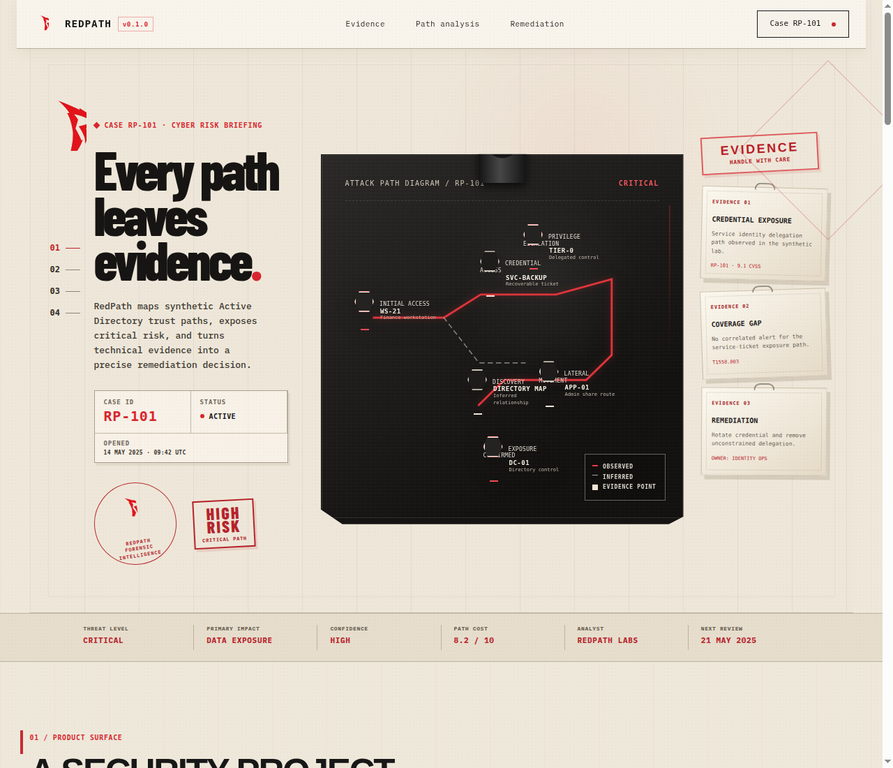
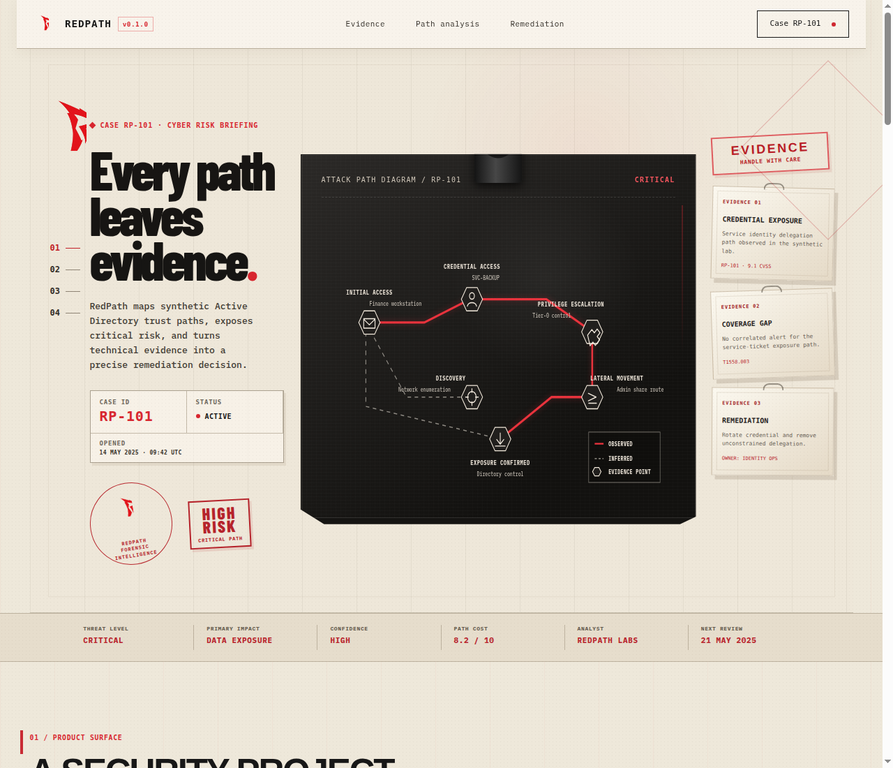
design: compose reference attack board

diff --git a/frontend/src/App.tsx b/frontend/src/App.tsx
@@ -27,6 +27,20 @@ import { coverageByTactic, findings, graphNodes, mitreCoverage, overallCoverage,
 
 const severityOrder: Severity[] = ["Critical", "High", "Medium", "Low"];
 
+function ReferenceBoard() {
+  return <div className="reference-board" role="img" aria-label="Observed RedPath exposure route through synthetic Active Directory evidence">
+    <svg viewBox="0 0 1000 620" preserveAspectRatio="none"><path className="observed" d="M125 250 H290 L420 200 H635 L765 270 V410 H650 L505 500" /><path className="inferred" d="M125 250 L240 410 H420" /><path className="inferred" d="M125 250 L125 430 L505 500" />
+      <g transform="translate(105 225)"><polygon className="node-plate" points="0,25 15,0 45,0 60,25 45,50 15,50" /><path className="node-icon" d="M14 17h32v20H14zM14 18l16 12 16-12" /></g><text className="node-label" x="135" y="190">INITIAL ACCESS</text><text className="node-detail" x="135" y="214">Finance workstation</text>
+      <g transform="translate(395 175)"><polygon className="node-plate" points="0,25 15,0 45,0 60,25 45,50 15,50" /><circle className="node-icon" cx="30" cy="18" r="7" /><path className="node-icon" d="M17 40c3-10 23-10 26 0" /></g><text className="node-label" x="425" y="135">CREDENTIAL ACCESS</text><text className="node-detail" x="425" y="159">SVC-BACKUP</text>
+      <g transform="translate(735 245)"><polygon className="node-plate" points="0,25 15,0 45,0 60,25 45,50 15,50" /><path className="node-icon" d="M17 32l12-12 7 7 8-8 8 8-8 8 7 7-12 12-7-7-8 8z" /></g><text className="node-label" x="705" y="215" textAnchor="end">PRIVILEGE ESCALATION</text><text className="node-detail" x="705" y="239" textAnchor="end">Tier-0 control</text>
+      <g transform="translate(395 385)"><polygon className="node-plate" points="0,25 15,0 45,0 60,25 45,50 15,50" /><circle className="node-icon" cx="30" cy="25" r="12" /><path className="node-icon" d="M30 7v8M30 35v8M12 25h8M40 25h8" /></g><text className="node-label" x="365" y="375" textAnchor="end">DISCOVERY</text><text className="node-detail" x="365" y="399" textAnchor="end">Network enumeration</text>
+      <g transform="translate(735 385)"><polygon className="node-plate" points="0,25 15,0 45,0 60,25 45,50 15,50" /><path className="node-icon" d="M19 17l22 8-22 8M20 38h22" /></g><text className="node-label" x="835" y="375">LATERAL MOVEMENT</text><text className="node-detail" x="835" y="399">Admin share route</text>
+      <g transform="translate(475 475)"><polygon className="node-plate" points="0,25 15,0 45,0 60,25 45,50 15,50" /><path className="node-icon" d="M30 12v24M20 26l10 10 10-10M16 40h28" /></g><text className="node-label" x="505" y="555" textAnchor="middle">EXPOSURE CONFIRMED</text><text className="node-detail" x="505" y="579" textAnchor="middle">Directory control</text>
+      <g transform="translate(755 485)"><rect className="legend-box" width="202" height="108" /><line className="legend-observed" x1="17" x2="42" y1="25" y2="25" /><text className="legend-text" x="56" y="30">OBSERVED</text><line className="legend-inferred" x1="17" x2="42" y1="57" y2="57" /><text className="legend-text" x="56" y="62">INFERRED</text><polygon className="node-plate" points="17,76 29,76 35,85 29,94 17,94 11,85" /><text className="legend-text" x="56" y="90">EVIDENCE POINT</text></g>
+    </svg>
+  </div>;
+}
+
 export default function Home() {
   const [selectedPathId, setSelectedPathId] = useState("path-service-ticket");
   const [selectedAssetId, setSelectedAssetId] = useState("SVC-BACKUP");
@@ -76,11 +90,8 @@ export default function Home() {
           <div className="hero-panel" aria-label="RedPath evidence board attack path diagram">
             <div className="case-board">
               <div className="case-board-head"><span>ATTACK PATH DIAGRAM / RP-101</span><b>CRITICAL</b></div>
-              <div className="case-board-route">
-                <svg viewBox="0 0 520 300" aria-hidden="true"><path d="M47 103 H165 L227 64 H354 L448 38 V166 L405 208 H267 L224 250" /><path className="inferred" d="M165 103 L224 179 L302 179" /><circle className="hot" cx="47" cy="103" r="7" /><circle cx="165" cy="103" r="7" /><circle className="hot" cx="227" cy="64" r="7" /><circle cx="354" cy="64" r="7" /><circle className="hot" cx="448" cy="38" r="7" /><circle cx="405" cy="208" r="7" /><circle className="hot" cx="224" cy="250" r="7" /></svg>
-                <div className="board-point initial hot">Initial access<b>WS-21</b><small>Finance workstation</small></div><div className="board-point credential">Credential access<b>svc-backup</b><small>Recoverable ticket</small></div><div className="board-point privilege hot">Privilege escalation<b>Tier-0</b><small>Delegated control</small></div><div className="board-point discovery">Discovery<b>Directory map</b><small>Inferred relationship</small></div><div className="board-point lateral">Lateral movement<b>APP-01</b><small>Admin share route</small></div><div className="board-point exfil hot">Exposure confirmed<b>DC-01</b><small>Directory control</small></div>
-              </div>
-              <div className="board-legend"><span>Observed</span><span>Inferred</span><span>Evidence point</span></div>
+              <ReferenceBoard />
+              <div className="case-board-route"><svg className="board-svg" viewBox="0 0 1000 600" preserveAspectRatio="none" role="img" aria-label="Six-stage synthetic attack path from workstation to directory control"><path className="attack-route" d="M120 340 H305 L375 195 H650 L800 335 V425 H600 V505" /><path className="inferred-route" d="M305 340 L375 430 H800" /><g className="hot"><polygon className="glyph" points="100,315 140,315 160,340 140,365 100,365 80,340" /><text className="index" x="120" y="341">01</text><text className="kind" x="180" y="307">INITIAL ACCESS</text><text className="node-name" x="180" y="337">WS-21</text><text className="node-note" x="180" y="360">Finance workstation</text></g><g><polygon className="glyph" points="355,170 395,170 415,195 395,220 355,220 335,195" /><text className="index" x="375" y="196">02</text><text className="kind" x="435" y="160">CREDENTIAL ACCESS</text><text className="node-name" x="435" y="190">SVC-BACKUP</text><text className="node-note" x="435" y="213">Recoverable ticket</text></g><g className="hot"><polygon className="glyph" points="630,115 670,115 690,140 670,165 630,165 610,140" /><text className="index" x="650" y="141">03</text><text className="kind" x="710" y="105">PRIVILEGE ESCALATION</text><text className="node-name" x="710" y="135">TIER-0</text><text className="node-note" x="710" y="158">Delegated control</text></g><g><polygon className="glyph" points="355,405 395,405 415,430 395,455 355,455 335,430" /><text className="index" x="375" y="431">04</text><text className="kind" x="435" y="395">DISCOVERY</text><text className="node-name" x="435" y="425">DIRECTORY MAP</text><text className="node-note" x="435" y="448">Inferred relationship</text></g><g><polygon className="glyph" points="780,310 820,310 840,335 820,360 780,360 760,335" /><text className="index" x="800" y="336">05</text><text className="kind" x="740" y="382" textAnchor="end">LATERAL MOVEMENT</text><text className="node-name" x="740" y="412" textAnchor="end">APP-01</text><text className="node-note" x="740" y="435" textAnchor="end">Admin share route</text></g><g className="hot"><polygon className="glyph" points="580,480 620,480 640,505 620,530 580,530 560,505" /><text className="index" x="600" y="506">06</text><text className="kind" x="660" y="475">EXPOSURE CONFIRMED</text><text className="node-name" x="660" y="505">DC-01</text><text className="node-note" x="660" y="528">Directory control</text></g><g transform="translate(775 465)"><rect className="legend-panel" width="195" height="112" /><line className="legend-observed" x1="16" x2="39" y1="25" y2="25" /><text className="legend-text" x="52" y="30">OBSERVED</text><line className="legend-inferred" x1="16" x2="39" y1="57" y2="57" /><text className="legend-text" x="52" y="62">INFERRED</text><polygon className="legend-point" points="17,75 29,75 35,84 29,93 17,93 11,84" /><text className="legend-text" x="52" y="89">EVIDENCE POINT</text></g></svg></div>
             </div>
           </div>
           <aside className="case-evidence-rail" aria-label="Evidence cards">

diff --git a/frontend/src/attack-board-rebuild.css b/frontend/src/attack-board-rebuild.css
@@ -1,0 +1,4 @@
+/* From-scratch board composition: fewer elements, bigger labels, clearer route. */
+.case-board-route { position: relative; height: 410px; margin-top: 13px; overflow: hidden; }.case-board-route svg { position: absolute; inset: 0; width: 100%; height: 100%; overflow: visible; }.case-board-route svg path { fill: none; stroke: #eb3b43; stroke-width: 3.1; stroke-linecap: round; stroke-linejoin: round; filter: drop-shadow(0 0 5px rgba(235,59,67,.3)); }.case-board-route svg .inferred { stroke: #a19e96; stroke-width: 1.5; stroke-dasharray: 7 7; filter: none; opacity: .84; }.board-node { position: absolute; z-index: 2; display: flex; align-items: center; gap: 10px; min-width: 136px; color: #f5eee2; text-shadow: 0 1px 0 #000; }.board-node .node-glyph { display: grid; flex: 0 0 31px; place-items: center; width: 31px; height: 34px; color: #f3eade; border: 1px solid rgba(246,239,227,.8); background: linear-gradient(145deg,#34312d,#151412); clip-path: polygon(25% 0,75% 0,100% 50%,75% 100%,25% 100%,0 50%); font: 800 9px "IBM Plex Mono", monospace; }.board-node.hot .node-glyph { color: #fff1e9; border-color: #fb776f; box-shadow: 0 0 0 1px rgba(235,59,67,.65), 0 0 18px rgba(235,59,67,.18); }.node-copy { display: grid; gap: 2px; }.node-copy span { color: #d3cbc0; font: 700 8px "IBM Plex Mono", monospace; letter-spacing: .08em; }.node-copy b { color: #fff8eb; font: 800 12px/1 "IBM Plex Mono", monospace; letter-spacing: .04em; }.node-copy small { color: #bcb5aa; font: 500 9px/1.2 "IBM Plex Mono", monospace; white-space: nowrap; }.node-initial { left: 4%; top: 46%; }.node-credential { left: 32%; top: 22%; }.node-privilege { right: 9%; top: 8%; }.node-discovery { left: 34%; bottom: 22%; }.node-lateral { right: 12%; bottom: 30%; }.node-exposure { left: 48%; bottom: 2%; }.board-legend { position: absolute; z-index: 3; right: 5px; bottom: 1px; display: grid; gap: 7px; min-width: 118px; padding: 11px 12px; border: 1px solid rgba(247,239,227,.38); background: rgba(8,8,7,.42); color: #eee6d9; }.board-legend span { display: flex; align-items: center; gap: 8px; font: 700 8px "IBM Plex Mono", monospace; letter-spacing: .07em; }.board-legend span::before { content: ""; width: 12px; height: 2px; background: #eb3b43; }.board-legend span:nth-child(2)::before { height: 1px; background: repeating-linear-gradient(90deg,#aaa7a1 0 4px,transparent 4px 7px); }.board-legend span:nth-child(3)::before { width: 10px; height: 10px; background: transparent; border: 1px solid #eee6d9; clip-path: polygon(25% 0,75% 0,100% 50%,75% 100%,25% 100%,0 50%); }
+@media (max-width: 1320px) { .case-board-route { height: 372px; }.board-node { gap: 8px; min-width: 115px; }.board-node .node-glyph { flex-basis: 26px; width: 26px; height: 29px; font-size: 8px; }.node-copy span { font-size: 7px; }.node-copy b { font-size: 10px; }.node-copy small { font-size: 8px; }.node-exposure { left: 43%; }.board-legend { transform: scale(.88); transform-origin: bottom right; } }
+@media (max-width: 760px) { .case-board-route { height: 340px; margin-top: 6px; }.board-node { min-width: 76px; gap: 5px; }.board-node .node-glyph { flex-basis: 18px; width: 18px; height: 21px; font-size: 6px; }.node-copy { gap: 1px; }.node-copy span { font-size: 5px; letter-spacing: .04em; }.node-copy b { font-size: 7px; }.node-copy small { max-width: 66px; overflow: hidden; font-size: 5px; text-overflow: ellipsis; }.node-initial { left: 1%; }.node-credential { left: 34%; top: 20%; }.node-privilege { right: 1%; }.node-discovery { left: 28%; }.node-lateral { right: 1%; }.node-exposure { left: 40%; }.board-legend { right: 1px; bottom: 0; min-width: 92px; padding: 7px 8px; transform: scale(.76); transform-origin: bottom right; } }

diff --git a/frontend/src/reference-attack-board.css b/frontend/src/reference-attack-board.css
@@ -1,0 +1,4 @@
+.case-board:has(.reference-board) { padding: 33px 36px 28px; }.case-board:has(.reference-board) > .case-board-route { display: none; }.reference-board { position: relative; height: 432px; margin-top: 12px; }.reference-board svg { display: block; width: 100%; height: 100%; overflow: visible; }.reference-board .observed { fill: none; stroke: #e9333d; stroke-width: 5; stroke-linecap: round; stroke-linejoin: round; filter: drop-shadow(0 0 7px rgba(233,51,61,.32)); }.reference-board .inferred { fill: none; stroke: #aaa59c; stroke-width: 2.2; stroke-dasharray: 10 10; opacity: .82; }.reference-board .node-plate { fill: #211f1d; stroke: #f3eadc; stroke-width: 2; }.reference-board .node-icon { fill: none; stroke: #f7eee2; stroke-width: 2.2; stroke-linecap: round; stroke-linejoin: round; }.reference-board .node-label { fill: #e7dfd3; font: 700 15px "IBM Plex Mono", monospace; letter-spacing: 1px; }.reference-board .node-detail { fill: #bdb6ac; font: 500 14px "IBM Plex Mono", monospace; }.reference-board .legend-box { fill: rgba(10,10,9,.36); stroke: rgba(246,237,223,.45); stroke-width: 1.5; }.reference-board .legend-text { fill: #eee6da; font: 700 13px "IBM Plex Mono", monospace; letter-spacing: .8px; }.reference-board .legend-observed { stroke: #e9333d; stroke-width: 3.5; }.reference-board .legend-inferred { stroke: #aaa59c; stroke-width: 2; stroke-dasharray: 6 5; }
+@media (max-width: 1320px) { .reference-board { height: 375px; }.reference-board .node-label { font-size: 13px; }.reference-board .node-detail { font-size: 12px; } } @media (max-width: 760px) { .case-board:has(.reference-board) { padding: 28px 18px; }.reference-board { height: 336px; }.reference-board .node-label { font-size: 11px; }.reference-board .node-detail { font-size: 10px; }.reference-board .legend-text { font-size: 10px; } }
+
+@media (min-width: 1321px) { .case-board:has(.reference-board) { padding: 28px 30px 24px; }.reference-board { height: 460px; }.reference-board .node-label { font-size: 17px; }.reference-board .node-detail { font-size: 15px; }.reference-board .observed { stroke-width: 5.5; }.reference-board .node-plate { stroke-width: 2.35; } } @media (min-width: 761px) and (max-width: 1320px) { .hero { grid-template-columns: 280px minmax(540px, 1fr) 175px; gap: 22px; padding-left: 86px; padding-right: 28px; }.case-board:has(.reference-board) { padding: 28px 29px 24px; }.reference-board { height: 414px; }.reference-board .node-label { font-size: 14px; }.reference-board .node-detail { font-size: 13px; }.reference-board .observed { stroke-width: 5; } }

diff --git a/frontend/src/attack-board-svg-rebuild.css b/frontend/src/attack-board-svg-rebuild.css
@@ -1,0 +1,4 @@
+.hero-panel::after { display: none; }.case-board-route { height: 418px; margin-top: 12px; overflow: hidden; }.case-board-route .board-svg { position: absolute; inset: 0; width: 100%; height: 100%; overflow: visible; }.case-board-route .board-svg .attack-route { fill: none; stroke: #ed3b43; stroke-width: 6; stroke-linecap: round; stroke-linejoin: round; filter: drop-shadow(0 0 8px rgba(237,59,67,.34)); }.case-board-route .board-svg .inferred-route { fill: none; stroke: #aaa69e; stroke-width: 3; stroke-dasharray: 12 11; opacity: .84; }.case-board-route .board-node, .case-board-route .board-legend { display: none; }.board-svg .glyph { fill: #1c1b19; stroke: #f4eadc; stroke-width: 2; }.board-svg .hot .glyph { stroke: #ff6b63; filter: drop-shadow(0 0 8px rgba(237,59,67,.36)); }.board-svg .index { fill: #f7eee1; font: 800 17px "IBM Plex Mono", monospace; text-anchor: middle; dominant-baseline: central; }.board-svg .kind { fill: #d7cec1; font: 700 15px "IBM Plex Mono", monospace; letter-spacing: 1.4px; }.board-svg .node-name { fill: #fff7e9; font: 800 24px "IBM Plex Mono", monospace; letter-spacing: .7px; }.board-svg .node-note { fill: #bfb7ab; font: 500 16px "IBM Plex Mono", monospace; }.board-svg .legend-panel { fill: rgba(6,6,5,.44); stroke: rgba(247,239,227,.44); stroke-width: 1.5; }.board-svg .legend-text { fill: #f4eadc; font: 700 14px "IBM Plex Mono", monospace; letter-spacing: 1px; }.board-svg .legend-observed { stroke: #ed3b43; stroke-width: 4; }.board-svg .legend-inferred { stroke: #aaa69e; stroke-width: 2; stroke-dasharray: 6 5; }.board-svg .legend-point { fill: #1c1b19; stroke: #f4eadc; stroke-width: 1.4; }
+@media (max-width: 760px) { .case-board-route { height: 348px; }.board-svg .kind { font-size: 13px; }.board-svg .node-name { font-size: 19px; }.board-svg .node-note { font-size: 13px; }.board-svg .legend-text { font-size: 11px; }.case-board-route .board-svg { transform: scale(1.02); transform-origin: top center; } }
+
+.board-svg g[transform="translate(775 465)"] { display: none; }.board-svg text[text-anchor="end"] { transform: translateY(-66px); }.case-board-route::after { content: "━ OBSERVED\A┄ INFERRED\A◇ EVIDENCE POINT"; position: absolute; z-index: 4; left: 10px; bottom: 8px; padding: 9px 11px; border: 1px solid rgba(247,239,227,.36); background: rgba(6,6,5,.42); color: #f1e8da; white-space: pre; font: 700 8px/1.75 "IBM Plex Mono", monospace; letter-spacing: .07em; }

diff --git a/frontend/src/main.tsx b/frontend/src/main.tsx
@@ -9,6 +9,9 @@ import "./forensic-reference-fidelity.css";
 import "./forensic-exact-reference.css";
 import "./forensic-polish.css";
 import "./attack-board-refinement.css";
+import "./attack-board-rebuild.css";
+import "./attack-board-svg-rebuild.css";
+import "./reference-attack-board.css";
 
 ReactDOM.createRoot(document.getElementById("root")!).render(
   <React.StrictMode>
